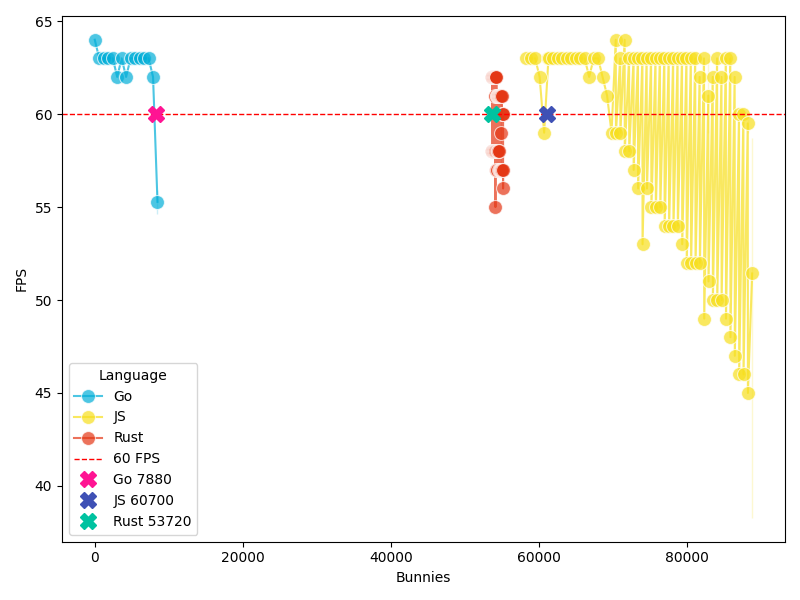
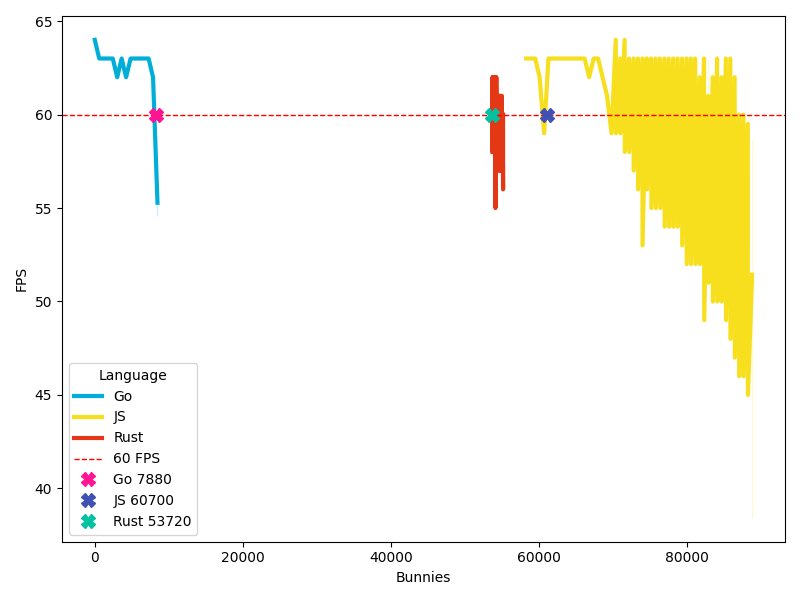
Update plots

diff --git a/plots/main.py b/plots/main.py
@@ -7,13 +7,13 @@ import seaborn as sns
 
 
 def main():
-    # plot_fps_vs_bunnies()
+    plot_fps_vs_bunnies()
     # plot_max_bunnies()
     # plot_tps_stability()
     # plot_frame_time_distribution()
     # plot_heap_usage()
     # plot_load_time()
-    rust_vs_rust()
+    # rust_vs_rust()
 
 
 DATA_DIR = "./data"
@@ -97,9 +97,7 @@ def rust_vs_rust():
         x="bunnies",
         y="fps_js",
         hue="opt_level",
-        marker="o",
-        alpha=0.7,
-        markersize=10,
+        linewidth=3,
     )
 
     plt.axhline(y=60, color="red", linestyle="--", linewidth=1, label="60 FPS")
@@ -121,7 +119,7 @@ def rust_vs_rust():
                     bunny_cross,
                     60,
                     "X",
-                    markersize=12,
+                    markersize=10,
                     label=f"{opt_level} {x0}",
                 )
                 break
@@ -147,9 +145,7 @@ def plot_fps_vs_bunnies():
             y="fps_js",
             hue="lang",
             palette=LANG_COLORS,
-            alpha=0.7,
-            marker="o",
-            markersize=10,
+            linewidth=3,
         )
 
         plt.axhline(y=60, color="red", linestyle="--", linewidth=1, label="60 FPS")
@@ -169,7 +165,7 @@ def plot_fps_vs_bunnies():
                         bunny_cross,
                         60,
                         "X",
-                        markersize=12,
+                        markersize=10,
                         color=LANG_CONTRAST_COLORS[lang],
                         label=f"{lang} {x0}",
                     )
@@ -213,7 +209,7 @@ def plot_tps_stability():
     plt.figure(figsize=(12, 6))
     sns.boxplot(x="lang_browser", y="tps", data=df_clean)
 
-    plt.ylim(55, 65)  # Focused TPS range
+    plt.ylim(55, 65)
     plt.xticks(rotation=45)
     plt.xlabel("Language - Browser")
     plt.ylabel("TPS")
@@ -234,7 +230,7 @@ def plot_frame_time_distribution():
         axs[idx].set_title(metric)
         axs[idx].set_ylabel("ms")
 
-    plt.tight_layout(rect=[0, 0.03, 1, 0.95])  # Adjust layout to make room for suptitle
+    plt.tight_layout(rect=[0, 0.03, 1, 0.95])
 
     finalize_plot("Frame_Time_Distribution")
 
@@ -250,9 +246,8 @@ def plot_heap_usage():
         y="heap_mb",
         hue="lang",
         hue_order=["JS", "Rust", "Go"],
-        marker="o",
-        markersize=10,
         palette=LANG_COLORS,
+        linewidth=3,
     )
 
     plt.xlabel("Bunnies")
